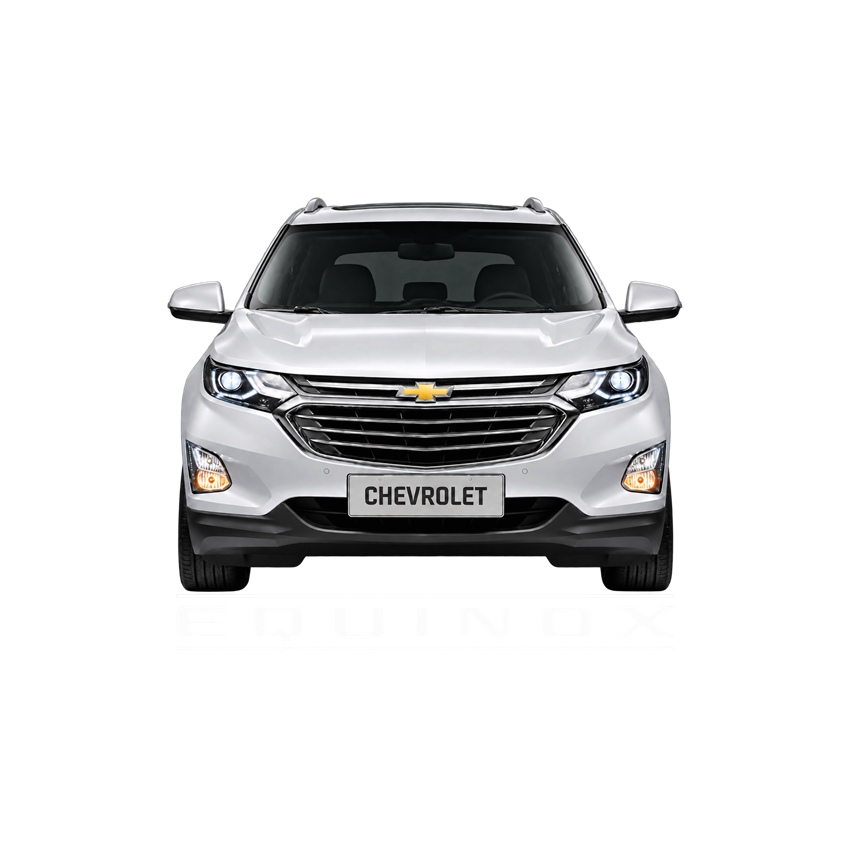
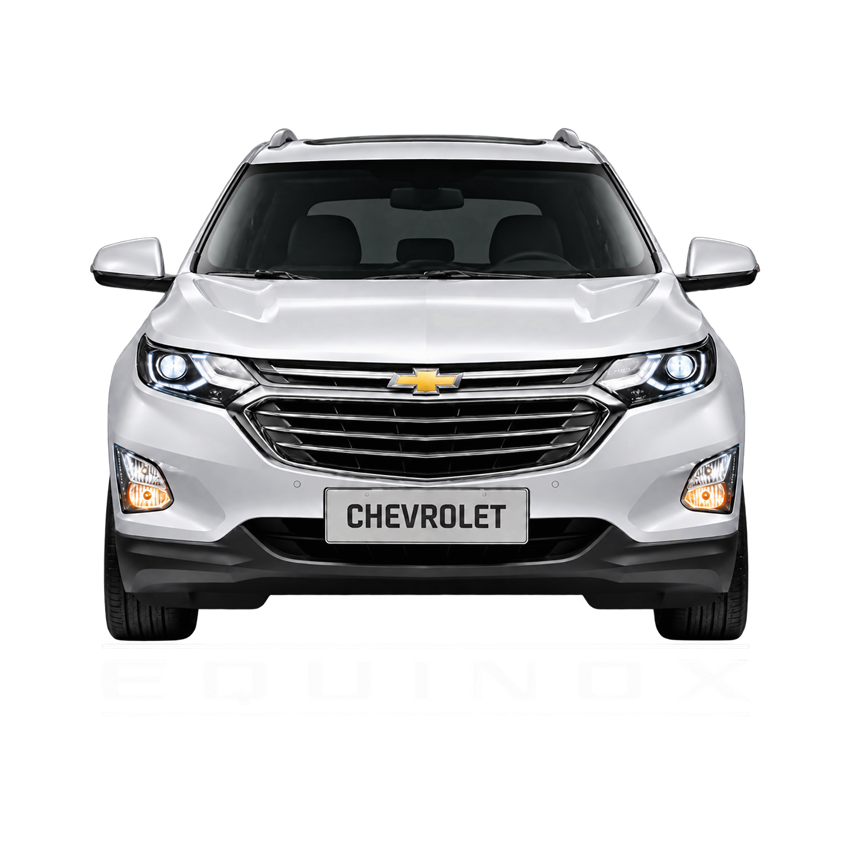
Remove loading ring and enlarge Equinox image

Changed region(s): [[0.092, 0.1533, 0.9198, 0.7665]]

diff --git a/selfdrive/ui/qt/spinner.cc b/selfdrive/ui/qt/spinner.cc
@@ -8,7 +8,6 @@
 #include <QGridLayout>
 #include <QPainter>
 #include <QString>
-#include <QTransform>
 
 #include "selfdrive/hardware/hw.h"
 #include "selfdrive/ui/qt/qt_window.h"
@@ -17,35 +16,13 @@
 TrackWidget::TrackWidget(QWidget *parent) : QWidget(parent) {
   setAttribute(Qt::WA_OpaquePaintEvent);
   setFixedSize(spinner_size);
-
-  // pre-compute all the track imgs. make this a gif instead?
-  QPixmap comma_img = loadPixmap("../assets/img_spinner_comma.png", spinner_size);
-  QPixmap track_img = loadPixmap("../assets/img_spinner_track.png", spinner_size);
-
-  QTransform transform(1, 0, 0, 1, width() / 2, height() / 2);
-  QPixmap pm(spinner_size);
-  QPainter p(&pm);
-  p.setRenderHint(QPainter::SmoothPixmapTransform);
-  for (int i = 0; i < track_imgs.size(); ++i) {
-    p.resetTransform();
-    p.fillRect(0, 0, spinner_size.width(), spinner_size.height(), Qt::black);
-    p.drawPixmap(0, 0, comma_img);
-    p.setTransform(transform.rotate(360 / spinner_fps));
-    p.drawPixmap(-width() / 2, -height() / 2, track_img);
-    track_imgs[i] = pm.copy();
-  }
-
-  m_anim.setDuration(1000);
-  m_anim.setStartValue(0);
-  m_anim.setEndValue(int(track_imgs.size() -1));
-  m_anim.setLoopCount(-1);
-  m_anim.start();
-  connect(&m_anim, SIGNAL(valueChanged(QVariant)), SLOT(update()));
+  comma_img = loadPixmap("../assets/img_spinner_comma.png", spinner_size);
 }
 
 void TrackWidget::paintEvent(QPaintEvent *event) {
   QPainter painter(this);
-  painter.drawPixmap(0, 0, track_imgs[m_anim.currentValue().toInt()]);
+  painter.fillRect(rect(), Qt::black);
+  painter.drawPixmap(0, 0, comma_img);
 }
 
 // Spinner

diff --git a/selfdrive/ui/qt/spinner.h b/selfdrive/ui/qt/spinner.h
@@ -1,13 +1,9 @@
-#include <array>
-
 #include <QLabel>
 #include <QPixmap>
 #include <QProgressBar>
 #include <QSocketNotifier>
-#include <QVariantAnimation>
 #include <QWidget>
 
-constexpr int spinner_fps = 30;
 constexpr QSize spinner_size = QSize(360, 360);
 
 class TrackWidget : public QWidget  {
@@ -17,8 +13,7 @@ public:
 
 private:
   void paintEvent(QPaintEvent *event) override;
-  std::array<QPixmap, spinner_fps> track_imgs;
-  QVariantAnimation m_anim;
+  QPixmap comma_img;
 };
 
 class Spinner : public QWidget {
